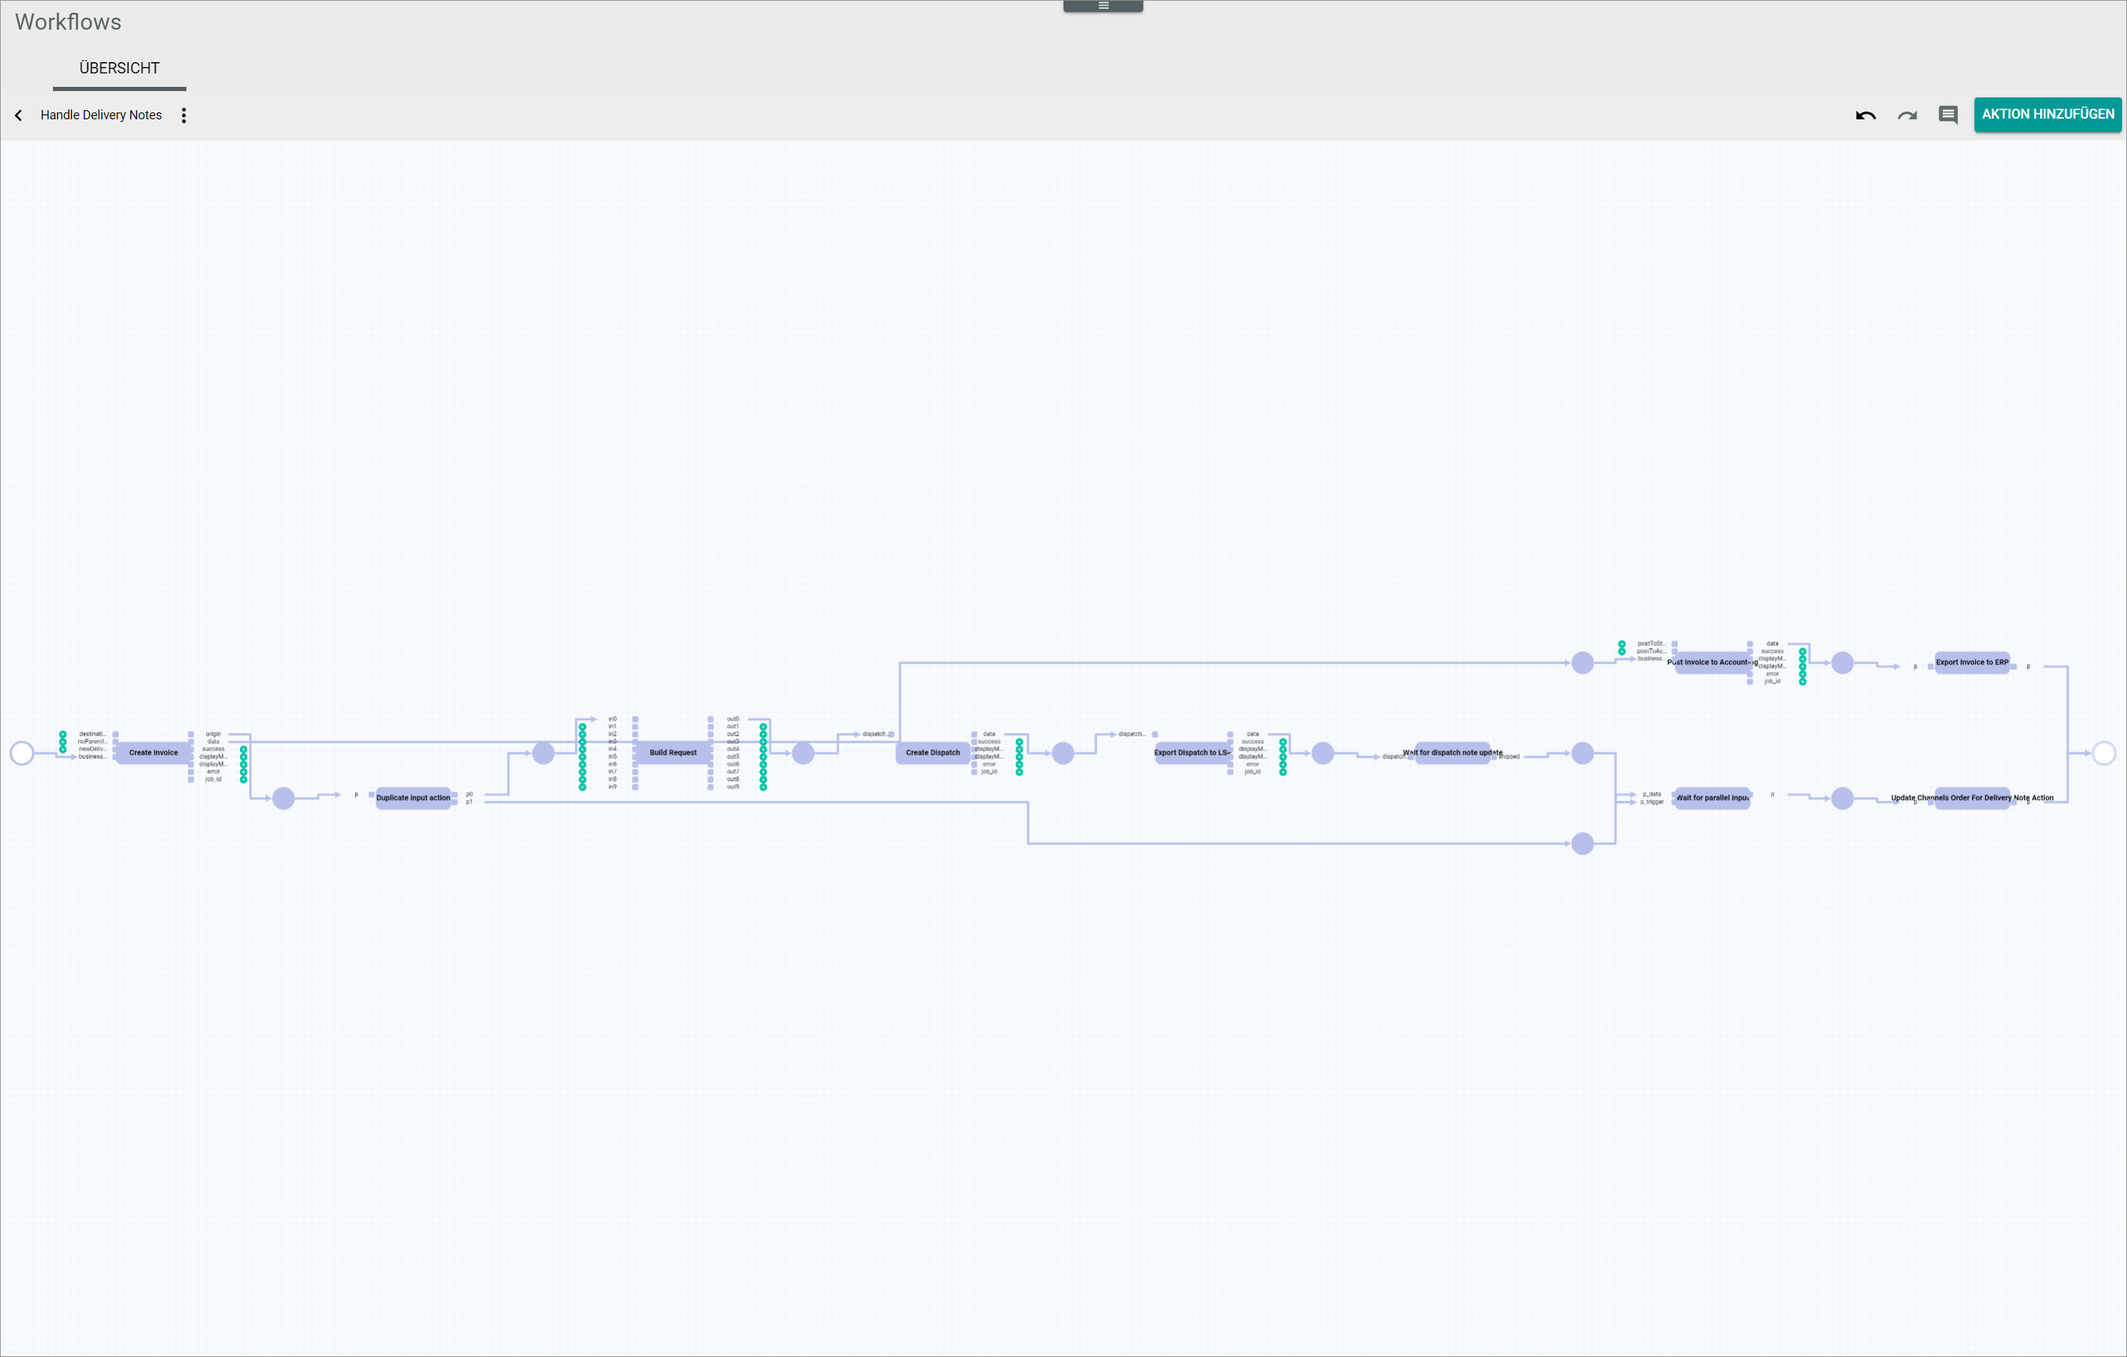
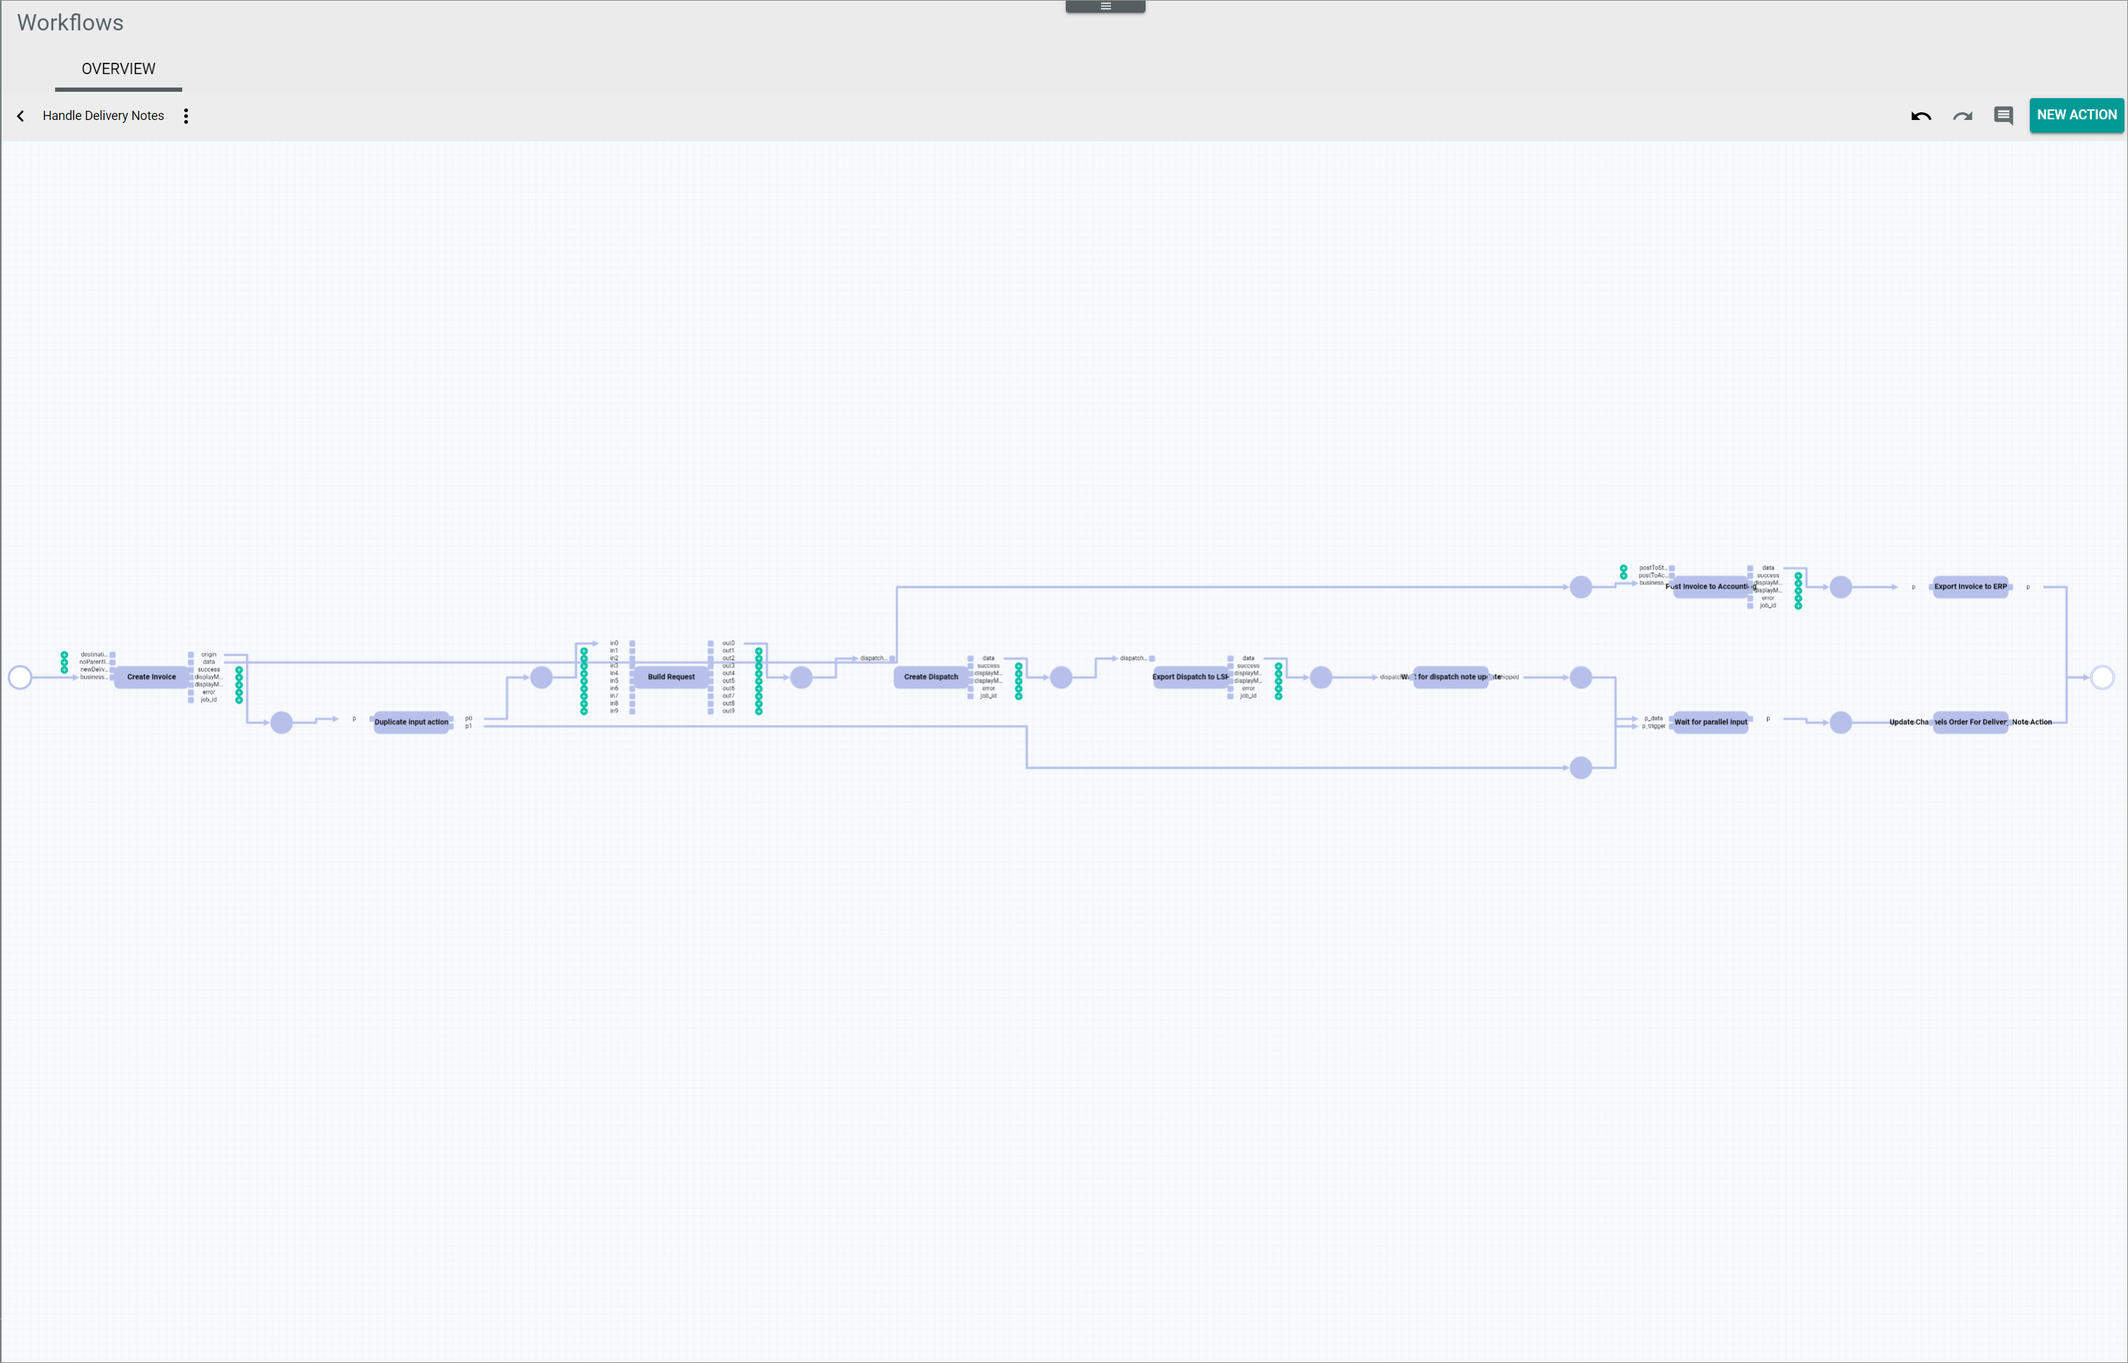
ACD-579
Screenshots modified, Tokens and start/end point added

diff --git a/Workflows/UserInterface/01_WorkflowElements.md b/Workflows/UserInterface/01_WorkflowElements.md
@@ -9,64 +9,66 @@
 A workflow is represented with a number of fixed elements, each of them having specific characteristics. These elements are used to design the workflow, which
 can be edited as necessary according to customer needs. For detailed information, see [Manage workflows](#01_ManageWorkflows.md).
 
-A workflow runs from left to right, from a start point to an end point, which can be in turn linked to another workflow. The data input in the start point, for example a document, goes through the different workflow stages (places and actions) until it reaches the end point. The process is than completed.
+A workflow runs from left to right, from a start point to an end point, which can be in turn linked to another workflow. The data input at the start point, for example a document, goes through the different workflow stages (places and actions) until it reaches the end point. The process is than completed.
 
-> [Info] Data is provided from different system modules and plug-ins, such as Invoicing, Email, OmniChannels, Tasks, etc. The actions available to create workflows depend on the modules installed in the system.
+> [Info] Data is provided from different system modules and plugins, such as *Invoicing*, *Email*, *OmniChannels*, *Tasks*, among others. The actions available to create workflows depend on the modules installed in the system.
 
 
 ## Places
 
-[comment]: <> (Add screenshot section)
+![Place](/Assets/Screenshots/Workflows/Workflows/Place.png "[Place]")
 
-A place, also known as node, is a step in the workflow and is represented with the ![Place](/Assets/Icons/Place.png "[Place]") (Place) icon. When clicking it, it becomes highlighted and turns light green. The place data are displayed in the settings side bar.
+A place is a step in the workflow and is represented by circle, usually with incoming and outgoing arrows.
 
-[comment]: <> (Data type / Daten-Container in settings side bar?)
+Places serve as link between actions, joining an output port from the previous action to the corresponding input port of the following action. Places linking mandatory input/output ports are displayed per default and cannot be deleted. Additional places can be added by clicking on the ![Add](/Assets/Icons/Plus01.png "[Add]") (Add) button next to the optional input/output port. For detailed information about the types of input/output ports, see [Input and output ports](#input-and-output-port).
 
-Places are the link between actions, joining an output port from the previous action to the corresponding input port of the following action. Places linking mandatory input/output ports are displayed per default and cannot be deleted. Additional places can be added by clicking on the ![Plus](/Assets/Icons/PLus01.png "[Plus]") (Plus) icon next to the optional input/output port. For detailed information about the types of input/output ports, see [Input and output ports](#input-and-output-port).
-
+When clicking a place, it becomes highlighted and the corresponding element settings are displayed in the settings side bar.
 
 ![Settings side bar](/Assets/Screenshots/Workflows/Workflows/SettingsSideBar01.png "[Settings side bar]")
 
-The settings side bar is located to the right of the settings side bar and displays the following information:
+The place settings side bar is located to the right of the workspace and displays the following information:
 
   - *Key*  
   Element key. This information is read-only.
 
   - *Data container*  
+  Use this field to define the data type to be used in the place.
 
-  [comment]: <> (Where data type are specified? If data type available/contained in place, action list only displays compatible actions. When adding a new action with + sign, new compatible action is linked automatically. anyValue per default? Is it possible to enter a value or is it already defined, that is, data type?)
+    - ![Search](/Assets/Icons/Search.png "[Search]") (Search)  
+  Enter a search text in the search bar. The data type list is filtered according to the search text entered.
 
-  - ![Search](/Assets/Icons/Search.png "[Search]") (Search)  
-  Enter any value to be searched in the search bar.  
+    - ![Delete](/Assets/Icons/Cross02.png "[Delete]") (Delete)  
+  Click this element to clear the data displayed in the search bar. A list of all available data types is displayed.
 
-  - ![Cross](/Assets/Icons/Cross02.png "[Cross]") (Cross)  
-  Click this icon to display all available data containers.
-
-  - ![Radio button](/Assets/Icons/Radiobutton.png "[Radio button]") (Radio button)  
+    - ![Radio button](/Assets/Icons/Radiobutton.png "[Radio button]") (Radio button)  
   Select the radio button corresponding to the appropriate option.
 
-Once an action is executed, one or more outputs are generated, which in turn become(s) input for the next action. Places linked to mandatory output ports cannot be left hanging, otherwise workflow displays error and stops.
+[comment]: <> (Where data type are specified? If data type available/contained in place, action list only displays compatible actions. When adding a new action with + sign, new compatible action is linked automatically. anyValue per default? Is it possible to enter a value or is it already defined, that is, data type?)
 
 
 ## Actions
 
-[comment]: <> (Add screenshot section)
+![Action](/Assets/Screenshots/Workflows/Workflows/AddAction.png "[Action]")
 
-Actions, also known as transitions, are the individual tasks being executed in the workflow and are represented with the ![Action](/Assets/Icons/Action.png "[Action]") icon. When clicking it, it becomes highlighted and turns light green. The action data are displayed in the settings side bar.
+Actions, also known as transitions, are the individual tasks being executed in the workflow and are represented by a rectangle.
 
 Actions can contain any number of input and output ports, which can be mandatory or optional. For detailed information about the types of input/output ports, see [Input and output ports](#input-and-output-ports).
 
- When adding a new action, all compatible input and output ports are included. Mandatory input ports are already displayed and linked to the new actions, whereas optional ones are displayed with a ![Plus](/Assets/Icons/PLus01.png "[Plus]") (Plus) icon. All places linked to (mandatory) inputs and outputs ports must contain data for the actions to work and the workflow to be completed. Otherwise, the workflow stops at the point where data are missing.
+ When adding a new action, all compatible input and output ports are included. Mandatory input ports are already displayed and linked to a place, whereas optional ones are displayed with a ![Add](/Assets/Icons/Plus01.png "[Add]") (Add) button.
+
+ All places linked to inputs and outputs ports must be provided with one or more pieces of data, also known as tokens, for the actions to be executed and the workflow to be completed. Otherwise, the workflow stops at the point where tokens are missing. Once an action is executed, one or more output data (tokens) are generated, which in turn become(s) input data (tokens) for the next action. For detailed information about tokens, see [Tokens](#to-be-determined).
 
 [comment]: <> (Where are the data? Ports or places? If an optional port is linked but no data available, does the process stop too? I guess yes?)
 
+
+When clicking an action, it becomes highlighted and the corresponding element settings are displayed in the settings side bar.
 
 ![Settings side bar](/Assets/Screenshots/Workflows/Workflows/SettingsSideBar02.png "[Settings side bar]")
 
 The settings side bar is located to the right of the workspace and displays the following information:
 
   - (Action name and description)  
-  The action name can changed in the *Label* entry field. The action description explains the task to be performed.
+  The action name can be changed in the *Label* entry field. The action description provides further information about the task to be performed.
 
   [comment]: <> (Coding under the action name supposed to be left like that? Add information for user?)  
 
@@ -74,7 +76,7 @@ The settings side bar is located to the right of the workspace and displays the 
    Element key. This information is read-only.
 
   - *Label*  
-  Action name. This information is editable. If the label is edited, the action name is changed, both in the settings side bar and in the diagram.
+  Action name. Click this field to edit the action name. The action name is edited both in the settings side bar and in the diagram.
 
   - *Queue type*  
   Click the drop-down list to select the applicable queue type. For detailed information about queue types, see [Configure the queue types](#to-be-completed).
@@ -85,31 +87,25 @@ The settings side bar is located to the right of the workspace and displays the 
 [comment]: <> (What is a task event? What do the different options mean?)
 
   - *Configuration*  
-  Depending on the action, there might be configuration options, for instance, defining an email where a receipt or document must be sent. This information is editable and requires programming advanced knowledge.
+  Depending on the action, there might be configuration options, for instance, defining an email where a receipt or document must be sent. Editing the action configuration requires advanced programming knowledge.
 
-  > [Info] Not all actions can be configured/have a configuration option. In this case, this option is not displayed.
+  > [Info] Not all actions have a configuration option. In this case, this option is not displayed.
 
-  - *Static inputs*  ![Plus](/Assets/Icons/PLus01.png "[Plus]")  
-  The optional inputs are displayed. They can be edited by clicking the ![Plus](/Assets/Icons/PLus01.png "[Plus]") (Plus) icon.
+  - *Static inputs*  ![Add](/Assets/Icons/Plus01.png "[Add]")  
+  The optional inputs are displayed. They can be edited by clicking the ![Add](/Assets/Icons/Plus01.png "[Add]") (Add) button.
 
 [comment]: <> (What can you do with them?)
 
 
 ## Input and output ports
 
-[comment]: <> (Add screenshot section)
+![Input and output ports](/Assets/Screenshots/Workflows/Workflows/InputOutputPorts.png "[Input and output ports]")
 
-Every action can contain any number of input and output ports. They can be defined with a descriptive name, such as reporter, title or event, or be simply marked as in (input) and out (output) followed by a consecutive number.
+Every action can contain any number of input and output ports. They can be defined with a descriptive name, such as reporter, title or event, or be simply marked as *in* (input) and *out* (output) followed by a consecutive number.
+
+Input ports are positioned to the left of the action and represented by a square. Output ports are positioned to the right of the action and represented by a square.
 
 [comment]: <> (Why? Is there are reason? Can the port name be edited? Maybe in "statische Inputs"? If yes, what about outputs?)
-
-- ![Input port](/Assets/Icons/InputPort.png "[Input port]")  
-  Input ports are positioned to the left of the action and represented by a blue square icon.
-
-- ![Output port](/Assets/Icons/OutputPort.png "[Output port]")  
-  Input ports are positioned to the right of the action and represented by a blue square.
-
-[comment]: <> (Change layout!)
 
 Both input and output ports can be of two types:
 
@@ -117,14 +113,16 @@ Both input and output ports can be of two types:
   Mandatory ports must be linked to a place, which in turn must be linked to an action. Otherwise, the workflow stops and shows an error. Places linked to a mandatory port cannot be deleted or removed. When adding a new action, mandatory input/output places are already displayed and linked to the new action.
 
 - **Optional**  
- Optional ports are displayed with a ![Plus](/Assets/Icons/PLus01.png "[Plus]") (Plus) icon next to each of them. By clicking the ![Plus](/Assets/Icons/PLus01.png "[Plus]") (Plus) icon a new action can be added. For detailed information about adding new actions, see [Link](#to-be-completed).
+ Optional ports are displayed with a ![Add](/Assets/Icons/Plus01.png "[Add]") (Add) button next to each of them. By clicking the ![Add](/Assets/Icons/Plus01.png "[Add]") (Add) button a new action can be added. For detailed information about adding new actions, see [Link](#to-be-completed).
 
 [comment]: <> (Unclear: difference port vs. place!)
 
 
 ## Tokens
 
-[comment]: <> (Add screenshot section)
+![Tokens](/Assets/Screenshots/Workflows/Workflows/Tokens.png "[Tokens]")
+
+[comment]: <> (Token belongs in Processes)
 
 A token is any piece of data needed to complete an action, for example a document.
 
@@ -139,6 +137,8 @@ The workflow process view displays the actions in different colours depending on
   - White: waiting
   - Red: error
 
+[comment]: <> (Colour coding changing here too?)
+
 Next to the status of each action, a number is displayed. This number refers to the number of tokens processed in this action.  
 
 If a token is missing, for example, if a document has not been issued, the action cannot be executed and the process stops at the point where data are missing. In this case, a black square is displayed on the place specifying the number of tokens missing at this point.
@@ -148,23 +148,67 @@ If a token is missing, for example, if a document has not been issued, the actio
 
 The tokens can also be displayed in a column view in the *Tokens* tab and filtered according to their status:  
 
-  - Green: done
+  - Green: processed
   - Blue: active
   - Red: error
 
-  [comment]: <> (Check!)
+  [comment]: <> (Check names: active and error? Colour coding changing here too?)
 
 
-For detailed information, see [Link](#to-be-determined). 
-
+For detailed information, see [Link](#to-be-determined).
 
 
 ## Start and end point
 
-[comment]: <> (Add screenshot section)
+![Start and end point](/Assets/Screenshots/Workflows/Workflows/Workflow.png "[Start and end point]")
 
-![Start point](/Assets/Icons/StartPoint.png "[Start point]")
 
-![End point](/Assets/Icons/EndPoint.png "[End point]")
+A workflow must have a start and an end point. A piece of data, or token, initiates the workflow at the start point and goes through all stages (places and actions) until it reaches the end point. The end point is the final result of all actions executed in the workflow. A new (sub)process can be linked subsequently to the end point. for detailed information, see [Link].
 
-A workflow must have a start and an end point. A new (sub)process can be linked subsequently to the end point (Workflow editor > [ADD ACTION] > Start Subprocess).
+
+### Start point
+
+The start point is the initial stage of the workflow. It is represented by a circle with an outgoing arrow pointing towards an input port of the first action. Similarly to a place, when clicking it, the start point becomes highlighted and the corresponding element settings are displayed in the settings side bar.
+
+![Start point](/Assets/Screenshots/Workflows/Workflows/StartPoint.png "[Start point]")
+
+The settings side bar is located to the right of the workspace and displays the following information:
+
+  - *Key*  
+  Element key. This information is read-only.
+
+  - *Data container*  
+  Use this field to define the data type contained to be used in the place.
+
+    - ![Search](/Assets/Icons/Search.png "[Search]") (Search)  
+  Enter a search text in the search bar. The data type list is filtered according to the search text entered.
+
+    - ![Delete](/Assets/Icons/Cross02.png "[Delete]") (Delete)  
+  Click this element to clear the data displayed in the search bar. A list of all available data types is displayed.
+
+    - ![Radio button](/Assets/Icons/Radiobutton.png "[Radio button]") (Radio button)  
+  Select the radio button corresponding to the appropriate option.
+
+
+### End point
+
+The end point is the final stage of the workflow. It is represented by a circle with a incoming arrow coming from one or more actions being executed in the last stage(s) of the workflow. Similarly to a place, when clicking it, the start point becomes highlighted and the corresponding element settings are displayed in the settings side bar.
+
+![End point](/Assets/Screenshots/Workflows/Workflows/EndPoint.png "[End point]")
+
+The settings side bar is located to the right of the workspace and displays the following information:
+
+  - *Key*  
+  Element key. This information is read-only.
+
+  - *Data container*  
+  Use this field to define the data type contained to be used in the place.
+
+    - ![Search](/Assets/Icons/Search.png "[Search]") (Search)  
+  Enter a search text in the search bar. The data type list is filtered according to the search text entered.
+
+    - ![Delete](/Assets/Icons/Cross02.png "[Delete]") (Delete)  
+  Click this element to clear the data displayed in the search bar. A list of all available data types is displayed.
+
+    - ![Radio button](/Assets/Icons/Radiobutton.png "[Radio button]") (Radio button)  
+  Select the radio button corresponding to the appropriate option.
